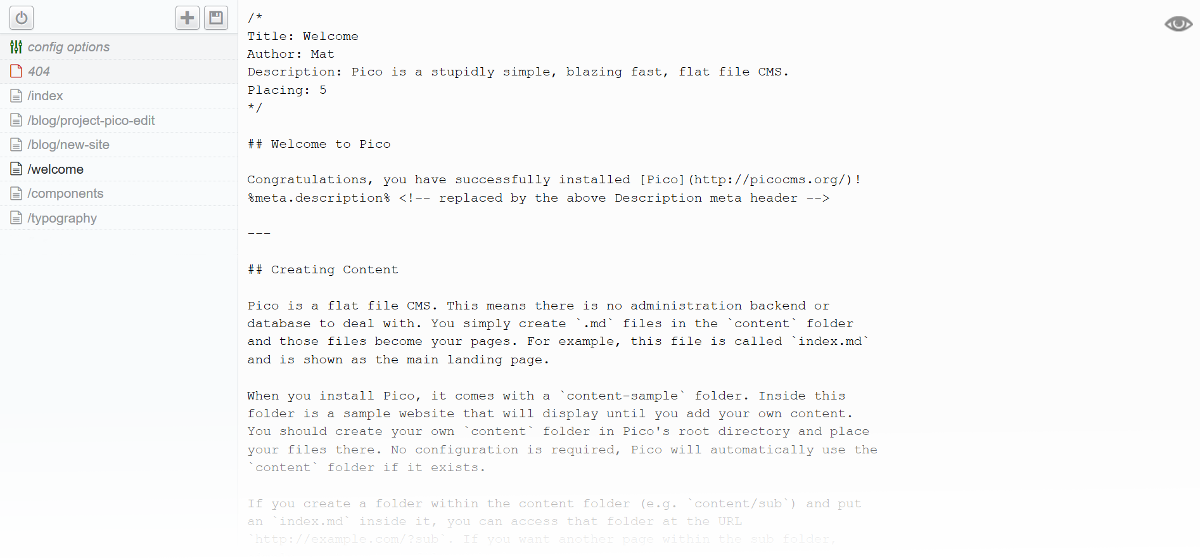
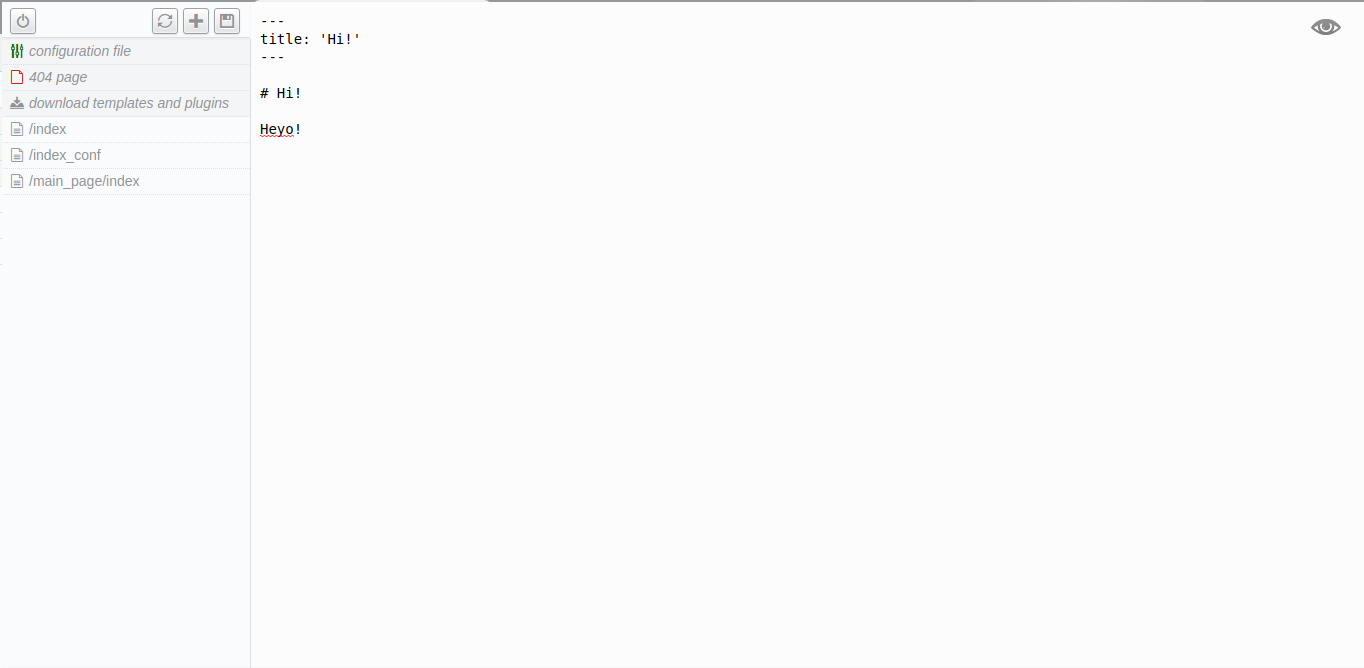
Version 0.4.0
This version comes with fixing bug which was causing badly parsing some chars when editing config.yml file and some second changes such as adding link to website of Pico and version of plugin.

diff --git a/editor.html b/editor.html
@@ -26,6 +26,9 @@
     <ul class="nav0">
       <li><a href="#" data-url="conf" class="post page-options"><span class="icon-equalizer2 marg-r5" aria-hidden="true"></span><i>configuration file</i></a></li>
       <li><a href="#" data-url="/404" class="post page-404"><span class="icon-file-empty marg-r5" aria-hidden="true"></span><i>404 page</i></a></li>
+      <li><a href="http://picocms.org"><span class="icon-download2 marg-r5" aria-hidden="true"></span><i>download templates and plugins</i></a></li>
+      <li><a href="https://github.com/Nepose/pico_edit"><span class="icon-eye marg-r5" aria-hidden="true"></span><i>plugin version: {{ pico_edit_version }}</i></a></li>
+<!-- <li><a href="checkupdates"><span class="icon-loop2 marg-r5" aria-hidden="true"></span><i>check for updates</i></a></li> -->
     </ul>
     <ul class="nav">
     {% for page in pages %}
@@ -40,7 +43,6 @@
     <div id="epiceditor"></div>
 
     <script src="{{ base_url }}/plugins/pico_edit/libs/jquery-1.12.3.min.js"></script>
-    <!-- <script src="{{ base_url }}/plugins/pico_edit/top_up-1.7.2/top_up-min.js"></script> -->
     <script src="{{ base_url }}/plugins/pico_edit/libs/epiceditor/js/epiceditor.min.js"></script>
     <script>
     $(document).ready(function() {

diff --git a/styles.css b/styles.css
@@ -1,7 +1,7 @@
 /*========================================*/
 /* Pico Edit Plugin
-/* By: Mattia Roccoberton
-/* https://github.com/blocknotes/pico_edit
+/* By: Mattia Roccoberton and Nepose
+/* https://github.com/Nepose/pico_edit
 /*========================================*/
 
 @font-face {

diff --git a/pico_edit.php b/pico_edit.php
@@ -2,11 +2,10 @@
 /**
  * Backend plugin for Pico CMS
  *
- * @author Mattia Roccoberton
- * @link http://blocknot.es
+ * @author Mattia Roccoberton, Nepose since v0.3.0
+ * @link https://github.com/Nepose/pico_edit
  * @license http://opensource.org/licenses/MIT
- * @version 0.3.0
- * @edited Nepose
+ * @version 0.4.0
  */
 
 final class Pico_Edit extends AbstractPicoPlugin {
@@ -19,6 +18,7 @@ final class Pico_Edit extends AbstractPicoPlugin {
   private $plugin_path = '';
   private $password = '';
   private $url = 'pico_edit';
+  private $version = '0.4.0';
 
   public function onPageRendering(Twig_Environment &$twig, array &$twig_vars, &$templateName)
   {
@@ -38,7 +38,7 @@ final class Pico_Edit extends AbstractPicoPlugin {
       // $twig_vars['autoescape'] = false;
       $twig_editor->addFilter('var_dump', new Twig_Filter_Function('var_dump'));
       if( !$this->password ) {
-        $twig_vars['login_error'] = 'No password set for the backend.';
+        $twig_vars['login_error'] = 'No password set for the plugin. Edit please your configuration file.';
         echo $twig_editor->render( 'login.html', $twig_vars ); // Render login.html
         exit;
       }
@@ -60,63 +60,23 @@ final class Pico_Edit extends AbstractPicoPlugin {
         }
       }
 
+      $twig_vars['pico_edit_version'] = $this->version;
       echo $twig_editor->render('editor.html', $twig_vars); // Render editor.html
       exit; // Don't continue to render template
+
     }
   }
 
   public function onConfigLoaded( array &$config ) {
-    // Default options
-    if( !isset( $config['pico_edit_404'] ) ) $config['pico_edit_404'] = TRUE;
-    if( !isset( $config['pico_edit_options'] ) ) $config['pico_edit_options'] = TRUE;
-    // Parse extra options
-    $conf = $this->getConfigDir() . '/config.yml';
-    if( !file_exists( $conf ) ) touch( $conf );
-    $data = filter_var( file_get_contents( $conf ), FILTER_SANITIZE_STRING );
-    foreach( preg_split( "/((\r?\n)|(\r\n?))/", $data ) as $line ) {
-      $line_ = trim( $line );
-      if( !empty( $line_ ) )
-      {
-        $pos = strpos( $line_, '=' );
-        if( $pos > 0 )
-        {
-          $key = trim( substr( $line, 0, $pos ) );
-          if( $key && $key[0] != '#' )
-          {
-            $value = trim( substr( $line, $pos + 1 ) );
-            // if( isset( $config[$key] ) )
-            $config[$key] = $value;
-          }
-        }
-        else
-        {
-          $pos = strpos( $line_, '!' );
-          if( $pos > 0 )
-          {
-            $key = trim( substr( $line, 0, $pos ) );
-            if( $key && $key[0] != '#' )
-            {
-              $value = trim( substr( $line, $pos + 1 ) );
-              // if( isset( $config[$key] ) )
-              $config[$key] = ( $value == '1' || $value == 'true' || $value == 'TRUE' || $value == 'yes' || $value == 'YES' || $value == 'on' || $value == 'ON' );
-            }
-          }
-        }
-      }
-    }
-
     $this->plugin_path = dirname( __FILE__ );
-    if( file_exists( $this->plugin_path .'/config.php' ) ) {
-      global $backend_password;
-      global $backend_url;
-      include_once( $this->plugin_path .'/config.php' );
-      $this->password = $backend_password;
-      if (isset($backend_url)) {
-        $this->url = $backend_url;
-      }
-    }
+    $this->password = $config['pico_edit_password'];
+//  $this->username = $config['pico_edit_username'];
     $page_404 = $this->getConfig('content_dir') . '/404.md';
-    if( !file_exists( $page_404 ) ) touch( $page_404 );
+    if( !file_exists( $page_404 ) ) { 
+	    touch( $page_404 );
+	    $temp_404_content = "---\nTitle: Error 404\nRobots: none\n---\n# Error 404\n\nWhoops. Looks like this page doesn't exist.";
+	    file_put_contents( $page_404, $temp_404_content);
+    }
   }
 
   // public function on404ContentLoading( &$file ) { var_dump( $file ); }
@@ -144,6 +104,7 @@ final class Pico_Edit extends AbstractPicoPlugin {
     if( $url == $this->url.'/git' ) $this->do_git();
     if( $url == $this->url.'/pushpull' ) $this->do_pushpull();
     if( $url == $this->url.'/clearcache' ) $this->do_clearcache();
+//    if( $url == $this->url.'/checkupdates' ) $this->is_update_checker = true;
   }
 
   /**
@@ -186,41 +147,9 @@ final class Pico_Edit extends AbstractPicoPlugin {
     }
     $path .= '/' . $file . $this->getConfig( 'content_ext' );
 
-    // TODO: check this part
-
-    // // From the bottom of the $contentDir, look for format templates,
-    // // working upwards until we get to CONTENT_DIR
-    // $template = null;
-    // $workDir = $contentDir;
-    // while(strlen($workDir) >= strlen(CONTENT_DIR)) {
-    //   // See if there's a format template here...?
-    //   if(file_exists($workDir . 'format.templ')) {
-    //     $template = strip_tags(substr($workDir . 'format.templ', strlen(CONTENT_DIR)));
-    //     break;
-    //   }
-    //   // Now strip off the last bit of path from the $workDir
-    //   $workDir = preg_replace('/[^\/]*\/$/', '', $workDir);
-    // }
-
-    // $file .= CONTENT_EXT;
-
-    // $content = null;
-    // if(!is_null($template)) {
-    //   $loader = new Twig_Loader_Filesystem(CONTENT_DIR);
-    //   $twig = new Twig_Environment($loader, array('cache' => null));
-    //   $twig->addExtension(new Twig_Extension_Debug());
-    //   $twig_vars = array(
-    //     'title' => $title,
-    //     'date' => date('j F Y'),
-    //     'time' => date('h:m:s'),
-    //     'author' => 'ralph',
-    //   );
-    //   $content = $twig->render($template, $twig_vars);
-    // }
-
     $error = '';
     // if( is_null( $content ) ) {
-    $content = "/*\nTitle: $name\nAuthor: " . ( $this->getConfig( 'pico_edit_default_author' ) ? $this->getConfig( 'pico_edit_default_author' ) : '' ) . "\nDate: ". date('j F Y') . "\n*/\n\n";
+    $content = "---\nTitle: $name\nAuthor: " . ( $this->getConfig( 'pico_edit_default_author' ) ? $this->getConfig( 'pico_edit_default_author' ) : '' ) . "\n---\n\n";
     // }
 
     if( file_exists( $path ) ) $error = 'Error: A post already exists with this title';
@@ -248,7 +177,7 @@ final class Pico_Edit extends AbstractPicoPlugin {
       if( $file && file_exists( $file ) ) die( file_get_contents( $file ) );
       else die( 'Error: Invalid file' );
     }
-    else if( $this->getConfig( 'pico_edit_options' ) )
+    else
     {
       $conf = $this->getConfigDir() . '/config.yml';
       if( file_exists( $conf ) ) die( file_get_contents( $conf ) );
@@ -273,10 +202,10 @@ final class Pico_Edit extends AbstractPicoPlugin {
         'error' => $error
       )));
     }
-    else if( $this->getConfig( 'pico_edit_options' ) )
+    else
     {
       $conf = $this->getConfigDir() . '/config.yml';
-      $content = ( isset( $_POST['content'] ) && $_POST['content'] ) ? filter_var( $_POST['content'], FILTER_SANITIZE_STRING ) : '';
+      $content = ( isset( $_POST['content'] ) && $_POST['content'] ) ? $_POST['content'] : '';
       $error = '';
       if( strlen( $content ) !== file_put_contents( $conf, $content ) ) $error = 'Error: cant save changes';
       die( json_encode( array( 'content' => $content, 'file' => $conf, 'error' => $error ) ) );

diff --git a/README.md b/README.md
@@ -1,14 +1,20 @@
 Pico Edit plugin
 ================
-Plugin provides a small admin panel for editing page content and CMS configuration. Now plugin is on beta testing so please don't hesitate to let me know when some bug is on it.
+Plugin provides a small admin panel for editing page content and CMS configuration.
 
 Install
 -------
 
-1. Set chmod (permissions) to 777 / 766 recursively on config/ and content/ directories. On Windows servers set to read/write for anyone. (In practice 644 will also work on most hostings, but 777 may be recommended in some situations).
+1. Set permissions of `config/` and `content/` directories to allow read/write (777 or 755 recommended).
 2. Clone the Github repo into your 'plugins' directory (so you get a 'pico_edit' subdirectory) OR download source code from releases and put it into 'pico_edit' subdir on 'plugins' directory.
-3. Open the config.php file on 'pico_edit' and insert your sha256 hashed password
-4. Visit http://www.yoursite.com/pico_edit and login
+3. Open your config.yml file on configuration and add following lines to it:
+```
+	pico_edit_password: put here SHA256 hashed password
+	pico_edit_default_author: put here default author to add for YAML header when creating page
+```
+4. Visit https://www.yoursite.com/pico_edit and login
+
+**Pay attention** if you are installing plugin on a fresh CMS, make sure that you have *config.yml* file and not *config.yml.template*. For well working Pico Edit requires existing configuration file.
 
 About
 -----
@@ -21,11 +27,7 @@ Pico Edit's features:
 * Edit Pico's config.yml file.
 * Some basic Git functions such as push, pull etc.
 
-Add to your config.yml following line to set default author of new pages:
-
-        pico_edit_default_author: 'Here put author'
-
-![Screenshot](https://github.com/blocknotes/pico_edit/blob/master/screenshot.png)
+![Screenshot](https://github.com/Nepose/pico_edit/blob/master/screenshot.png)
 
 Deny access to some files
 -------------------------
